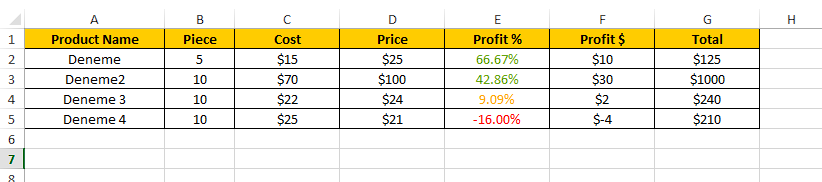
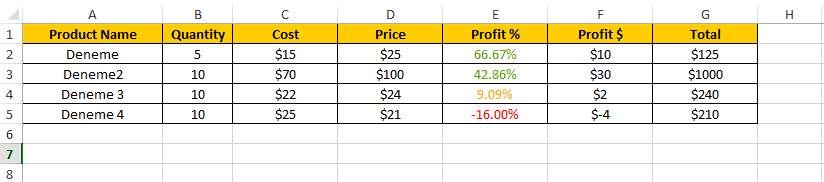
Errors in the images have been fixed and re-uploaded.

Changed region(s): [[0.0, 0.0549, 1.0, 1.0], [0.6995, 0.0549, 0.7299, 0.0824]]

diff --git a/src/i18n.ts b/src/i18n.ts
@@ -43,7 +43,7 @@ i18n
           Urun_Adi : "Product Name",
           tema : "Theme",
           dil : "Language",
-          adet : "Piece",
+          adet : "Quantity",
           birimGider : "Cost",
           birimSatış : "Price",
           kâr : "Profit",
